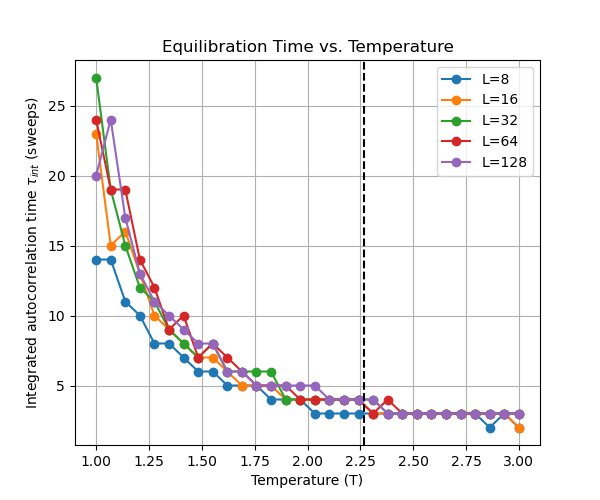
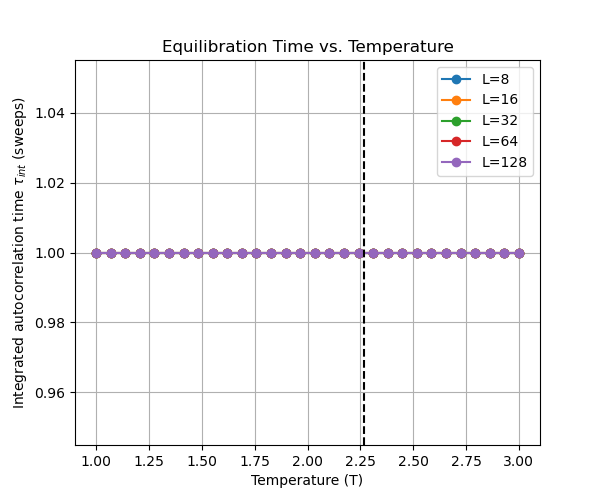
swendsen wang speedup with numba + union find

Changed region(s): [[0.0, 0.15, 0.9, 0.87]]

diff --git a/physics.py b/physics.py
@@ -6,32 +6,38 @@ import algorithms
 import lattice_utils
 
 
-def sample_autocovariance(x,tmax):
-    '''Compute the sample autocorrelation of the time series x 
-    for t = 0,1,...,tmax-1.'''
+def sample_autocovariance(x, tmax):
+    """Compute the sample autocorrelation of the time series x
+    for t = 0,1,...,tmax-1."""
     x_shifted = x - np.mean(x)
-    return np.array([np.dot(x_shifted[:len(x)-t],x_shifted[t:])/(len(x)-t) 
-                     for t in range(tmax)])
+    return np.array(
+        [
+            np.dot(x_shifted[: len(x) - t], x_shifted[t:]) / (len(x) - t)
+            for t in range(tmax)
+        ]
+    )
+
 
 def find_correlation_time(autocov):
-    '''Return the index of the first entry that is smaller than autocov[0]/e or the length of autocov if none are smaller.'''
-    smaller = np.where(autocov < np.exp(-1)*autocov[0])[0]
+    """Return the index of the first entry that is smaller than autocov[0]/e or the length of autocov if none are smaller."""
+    smaller = np.where(autocov < np.exp(-1) * autocov[0])[0]
     return smaller[0] if len(smaller) > 0 else len(autocov)
 
-# --- Simulation Parameters ---
-lattice_dims = [8, 16, 32, 64, 128]
-dimension = 1
-J_coupling = 1.0  # Ferromagnetic coupling
-h_field = 0.0     # No external field for spontaneous magnetization
 
-algorithm = algorithms.blocked_glauber
+# --- Simulation Parameters ---
+lattice_dims = [8, 16, 32, 64]
+dimension = 2
+J_coupling = 1.0  # Ferromagnetic coupling
+h_field = 0.0  # No external field for spontaneous magnetization
+
+algorithm = algorithms.swendsen_wang
 
 temperatures = np.linspace(1, 3, 30)
 num_equilibration_sweeps = 0  # Sweeps to reach equilibrium; may need tuning
-num_measurement_sweeps = 5000    # Sweeps for collecting data
+num_measurement_sweeps = 5000  # Sweeps for collecting data
 
 # Data storage dictionaries
-results = {L: {'mag': [], 'cv': [], 'chi': [], 'tau': []} for L in lattice_dims}
+results = {L: {"mag": [], "cv": [], "chi": [], "tau": []} for L in lattice_dims}
 
 # Main simulation loop over lattice sizes
 for L in lattice_dims:
@@ -48,25 +54,41 @@ for L in lattice_dims:
         )
 
         # 1. Equilibration
-        for _ in tqdm.tqdm(range(num_equilibration_sweeps), desc="Equilibration", leave=False):
+        for _ in tqdm.tqdm(
+            range(num_equilibration_sweeps), desc="Equilibration", leave=False
+        ):
             if algorithm == algorithms.glauber_dynamics:
                 for _ in range(N_spins):
                     ising_system.step(algorithms.glauber_dynamics)
             elif algorithm == algorithms.blocked_glauber:
                 for _ in range(ising_system.num_colors):
                     ising_system.step(algorithms.blocked_glauber)
+            elif algorithm == algorithms.swendsen_wang:
+                ising_system.step(algorithms.swendsen_wang)
+            elif algorithm == algorithms.wolff_dynamics:
+                ising_system.step(algorithms.wolff_dynamics)
+            else:
+                raise ValueError(f"Unknown algorithm: {algorithm}")
 
         # 2. Measurement
         magnetizations = []
         energies = []
-        for _ in tqdm.tqdm(range(num_measurement_sweeps), desc="Measurement", leave=False):
+        for _ in tqdm.tqdm(
+            range(num_measurement_sweeps), desc="Measurement", leave=False
+        ):
             if algorithm == algorithms.glauber_dynamics:
                 for _ in range(N_spins):
                     ising_system.step(algorithms.glauber_dynamics)
             elif algorithm == algorithms.blocked_glauber:
                 for _ in range(ising_system.num_colors):
                     ising_system.step(algorithms.blocked_glauber)
-            
+            elif algorithm == algorithms.swendsen_wang:
+                ising_system.step(algorithms.swendsen_wang)
+            elif algorithm == algorithms.wolff_dynamics:
+                ising_system.step(algorithms.wolff_dynamics)
+            else:
+                raise ValueError(f"Unknown algorithm: {algorithm}")
+
             magnetizations.append(ising_system.magnetization())
             energies.append(ising_system.energy())
 
@@ -84,12 +106,12 @@ for L in lattice_dims:
         cv = (mean_E_sq - mean_E**2) / (N_spins * T_current**2)
         # Susceptibility per spin
         chi = (mean_M_sq - mean_abs_M**2) / (N_spins * T_current)
-        
+
         tau_M = find_correlation_time(sample_autocovariance(M_array, len(M_array)))
-        results[L]['mag'].append(mag)
-        results[L]['cv'].append(cv)
-        results[L]['chi'].append(chi)
-        results[L]['tau'].append(tau_M)
+        results[L]["mag"].append(mag)
+        results[L]["cv"].append(cv)
+        results[L]["chi"].append(chi)
+        results[L]["tau"].append(tau_M)
 
 # Plotting all sizes on the same figure
 plt.figure(figsize=(18, 5))
@@ -97,33 +119,33 @@ plt.figure(figsize=(18, 5))
 # 1. Magnetization
 plt.subplot(1, 3, 1)
 for L in lattice_dims:
-    plt.plot(temperatures, results[L]['mag'], marker='o', label=f"L={L}")
+    plt.plot(temperatures, results[L]["mag"], marker="o", label=f"L={L}")
 plt.xlabel("Temperature (T)")
 plt.ylabel("<|m|> per spin")
 plt.title("Magnetization vs. Temperature")
-plt.axvline(2.269 * J_coupling, linestyle='--', color='k', label="T_c")
+plt.axvline(2.269 * J_coupling, linestyle="--", color="k", label="T_c")
 plt.legend()
 plt.grid(True)
 
 # 2. Specific Heat
 plt.subplot(1, 3, 2)
 for L in lattice_dims:
-    plt.plot(temperatures, results[L]['cv'], marker='s', label=f"L={L}")
+    plt.plot(temperatures, results[L]["cv"], marker="s", label=f"L={L}")
 plt.xlabel("Temperature (T)")
 plt.ylabel("C_v per spin")
 plt.title("Specific Heat vs. Temperature")
-plt.axvline(2.269 * J_coupling, linestyle='--', color='k')
+plt.axvline(2.269 * J_coupling, linestyle="--", color="k")
 plt.legend()
 plt.grid(True)
 
 # 3. Susceptibility
 plt.subplot(1, 3, 3)
 for L in lattice_dims:
-    plt.plot(temperatures, results[L]['chi'], marker='^', label=f"L={L}")
+    plt.plot(temperatures, results[L]["chi"], marker="^", label=f"L={L}")
 plt.xlabel("Temperature (T)")
-plt.ylabel("\u03C7 per spin")
+plt.ylabel("\u03c7 per spin")
 plt.title("Susceptibility vs. Temperature")
-plt.axvline(2.269 * J_coupling, linestyle='--', color='k')
+plt.axvline(2.269 * J_coupling, linestyle="--", color="k")
 plt.legend()
 plt.grid(True)
 
@@ -132,13 +154,13 @@ plt.savefig("pysing/figures/physics.png")
 plt.close()
 
 # 2. Autocorrelation Time vs Temperature
-plt.figure(figsize=(6,5))
+plt.figure(figsize=(6, 5))
 for L in lattice_dims:
-    plt.plot(temperatures, results[L]['tau'], marker='o', label=f"L={L}")
+    plt.plot(temperatures, results[L]["tau"], marker="o", label=f"L={L}")
 plt.xlabel("Temperature (T)")
 plt.ylabel(r"Integrated autocorrelation time $\tau_{int}$ (sweeps)")
 plt.title("Equilibration Time vs. Temperature")
-plt.axvline(2.269 * J_coupling, linestyle='--', color='k')
+plt.axvline(2.269 * J_coupling, linestyle="--", color="k")
 plt.legend()
 plt.grid(True)
 plt.savefig("pysing/figures/autocorrelation.png")

diff --git a/algorithms.py b/algorithms.py
@@ -1,4 +1,5 @@
 import numpy as np
+import numba
 
 import lattice
 
@@ -68,7 +69,7 @@ def wolff_dynamics(model: lattice.IsingLattice) -> np.ndarray:
     stack = [i]
     model.lattice[i] *= -1  
 
-    beta = 1.0 / (BOLTZMANN_CONSTANT * model.T)
+    beta = 1.0 / model.T
 
     while stack:
         site = stack.pop()
@@ -87,63 +88,121 @@ def wolff_dynamics(model: lattice.IsingLattice) -> np.ndarray:
 
     return model.lattice    
 
-def swendsen_wang(state, J, T):
-    """
-    Perform the Swendsen-Wang algorithm on the lattice.
+# def swendsen_wang(ising: lattice.IsingLattice) -> np.ndarray:
+#     """
+#     One Swendsen–Wang update on an IsingLattice. Uses Union–Find algorithm for fast cluster finding.
 
-    Args:
-        state: The original state of the lattice to perform the algorithm on
-        J: The coupling constant
-        T: The temperature
+#     Args:
+#         ising: IsingLattice instance, with
+#             - ising.lattice: 1D array of spins ±1, length N
+#             - ising.J: CSR sparse adjacency matrix of couplings (shape N×N)
+#             - ising.T: temperature
 
-    Returns:
-        np.ndarray: The lattice after performing one step of Swendsen-Wang algorithm.
-    """
-    
-    def calculate_bond_probability(J, T):
-        beta = 1 / T
-        return 1 - np.exp(-2 * beta * J)
-    
-    L = state.shape[0]
-    p = calculate_bond_probability(J, T)
-    visited = np.zeros((L, L), dtype=bool)
-    clusters = []
+#     Returns:
+#         Updated spin configuration (also stored back in ising.lattice).
+#     """
+#     spins = ising.lattice
+#     J = ising.J.tocsr()       # CSR format
+#     beta = 1.0 / ising.T
 
-    # Helper function: Find a cluster using breadth-first search (BFS)
-    def bfs(start_x, start_y):
-        cluster = [(start_x, start_y)]
-        queue = [(start_x, start_y)]
-        visited[start_x, start_y] = True
+#     N = ising.num_spins
+#     parent = np.arange(N)     # union-find parent pointers
 
-        # Directions: up, down, left, right (with periodic boundary conditions)
-        directions = [(-1, 0), (1, 0), (0, -1), (0, 1)]
+#     def find(i):
+#         # path‐compressed find
+#         while parent[i] != i:
+#             parent[i] = parent[parent[i]]
+#             i = parent[i]
+#         return i
 
-        while queue:
-            current_x, current_y = queue.pop(0)
-            for dx, dy in directions:
-                neighbor_x = (current_x + dx) % L
-                neighbor_y = (current_y + dy) % L
+#     def union(i, j):
+#         ri, rj = find(i), find(j)
+#         if ri != rj:
+#             parent[rj] = ri
 
-                # If a neighbor has the same spin value and the bond probability criterion is met, it belongs to the same cluster.
-                # Check if neighbor is not visited and has the same spin
-                if not visited[neighbor_x, neighbor_y] and state[current_x, current_y] == state[neighbor_x, neighbor_y]:
-                    # Add neighbor to cluster with probability p
-                    if np.random.rand() < p:
-                        visited[neighbor_x, neighbor_y] = True
-                        cluster.append((neighbor_x, neighbor_y))
-                        queue.append((neighbor_x, neighbor_y))
-        return cluster
+#     # For each edge (i,j) with coupling Jij, if spins[i]==spins[j], bond with prob p=1−exp(−2*Jij/T)
+#     rowptr, cols, data = J.indptr, J.indices, J.data
+#     for i in range(N):
+#         start, end = rowptr[i], rowptr[i+1]
+#         for idx in range(start, end):
+#             j = cols[idx]
+#             if j <= i:
+#                 continue   # only process each pair once
+#             if spins[i] != spins[j]:
+#                 continue
+#             Jij = data[idx]
+#             p_bond = 1.0 - np.exp(-2.0 * beta * Jij)
+#             if np.random.rand() < p_bond:
+#                 union(i, j)
 
-    # Find all clusters
-    for x in range(L):
-        for y in range(L):
-            if not visited[x, y]:
-                cluster = bfs(x, y)
-                clusters.append(cluster)
+#     clusters = {}
+#     for i in range(N):
+#         root = find(i)
+#         clusters.setdefault(root, []).append(i)
 
-    # Now we have all clusters, we can flip them with a certain probability (once per cluster)
-    # the flipped cluster do not conbine with other clusters in this step
-    for cluster in clusters:
-        if np.random.rand() < 0.5:
-            for (x, y) in cluster:
-                state[x, y] *= -1
+#     # Flip each cluster with probability 1/2
+#     for cluster_sites in clusters.values():
+#         if np.random.rand() < 0.5:
+#             spins[cluster_sites] *= -1
+
+#     # store back and return
+#     ising.lattice = spins
+#     return spins
+
+
+@numba.njit
+def find(parent, i):
+    while parent[i] != i:
+        parent[i] = parent[parent[i]]
+        i = parent[i]
+    return i
+
+@numba.njit
+def union(parent, i, j):
+    ri, rj = find(parent, i), find(parent, j)
+    if ri != rj:
+        parent[rj] = ri
+
+def swendsen_wang(ising):
+    spins = ising.lattice
+    N     = ising.num_spins
+    beta  = 1/ising.T
+
+    # 1) extract edges
+    coo   = ising.J.tocoo()
+    maskU = coo.col > coo.row
+    rows  = coo.row[maskU]; cols = coo.col[maskU]
+    Js    = coo.data[maskU]
+
+    # 2) same‐spin mask
+    same  = (spins[rows] == spins[cols])
+    rows, cols, Js = rows[same], cols[same], Js[same]
+
+    # 3) bond mask
+    p_bonds = 1 - np.exp(-2*beta * Js)
+    r       = np.random.rand(p_bonds.size)
+    active  = np.nonzero(r < p_bonds)[0]
+
+    # 4) union‐find in Numba
+    parent = np.arange(N)
+    for k in active:
+        union(parent, rows[k], cols[k])
+
+    # 5) build & flip clusters via roots array
+    roots = np.empty(N, dtype=np.int32)
+    for i in range(N):
+        roots[i] = find(parent, i)
+    order     = np.argsort(roots)
+    roots_s   = roots[order]
+
+    # scan runs of equal roots and flip
+    start = 0
+    for end in range(1, N+1):
+        if end==N or roots_s[end] != roots_s[start]:
+            cluster_idx = order[start:end]
+            if np.random.rand() < 0.5:
+                spins[cluster_idx] *= -1
+            start = end
+
+    ising.lattice = spins
+    return spins
